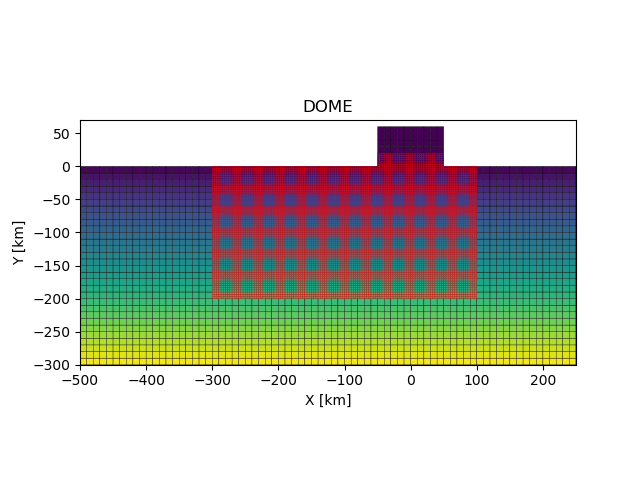
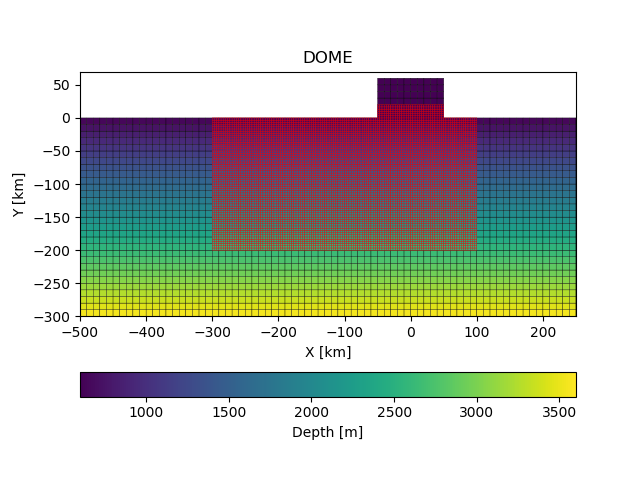
add colorbar in DOME plot

diff --git a/AGRIFTESTCASES/mk_mesh_dome.py b/AGRIFTESTCASES/mk_mesh_dome.py
@@ -313,11 +313,13 @@ batt1[jpi1-nghost-1:jpi1-1, :] = np.nan
 batt1[:, 0:nghost+1] = np.nan
 batt1[:, jpj1-nghost-1:jpj1-1] = np.nan
 batt1 = np.ma.masked_invalid(batt1)
-plt.pcolor(lont0-0.5*dx0*1.e-3, latt0-0.5*dy0*1.e-3, batt0, vmin=np.nanmin(batt0), vmax=np.nanmax(batt0), edgecolor='k')
+cs = plt.pcolor(lont0-0.5*dx0*1.e-3, latt0-0.5*dy0*1.e-3, batt0, vmin=np.nanmin(batt0), vmax=np.nanmax(batt0), edgecolor='k')
 plt.pcolor(lont1-0.5*dx1*1.e-3, latt1-0.5*dy1*1.e-3, batt1, vmin=np.nanmin(batt0), vmax=np.nanmax(batt0), edgecolor='r')
 ax.set_xlim(-500, 250)
 ax.set_ylim(-300,  70)
 ax.set_aspect('equal')
+cbar = fig.colorbar(cs, orientation='horizontal')
+cbar.set_label('Depth [m]')
 plt.xlabel('X [km]')
 plt.ylabel('Y [km]')
 plt.title('DOME')
